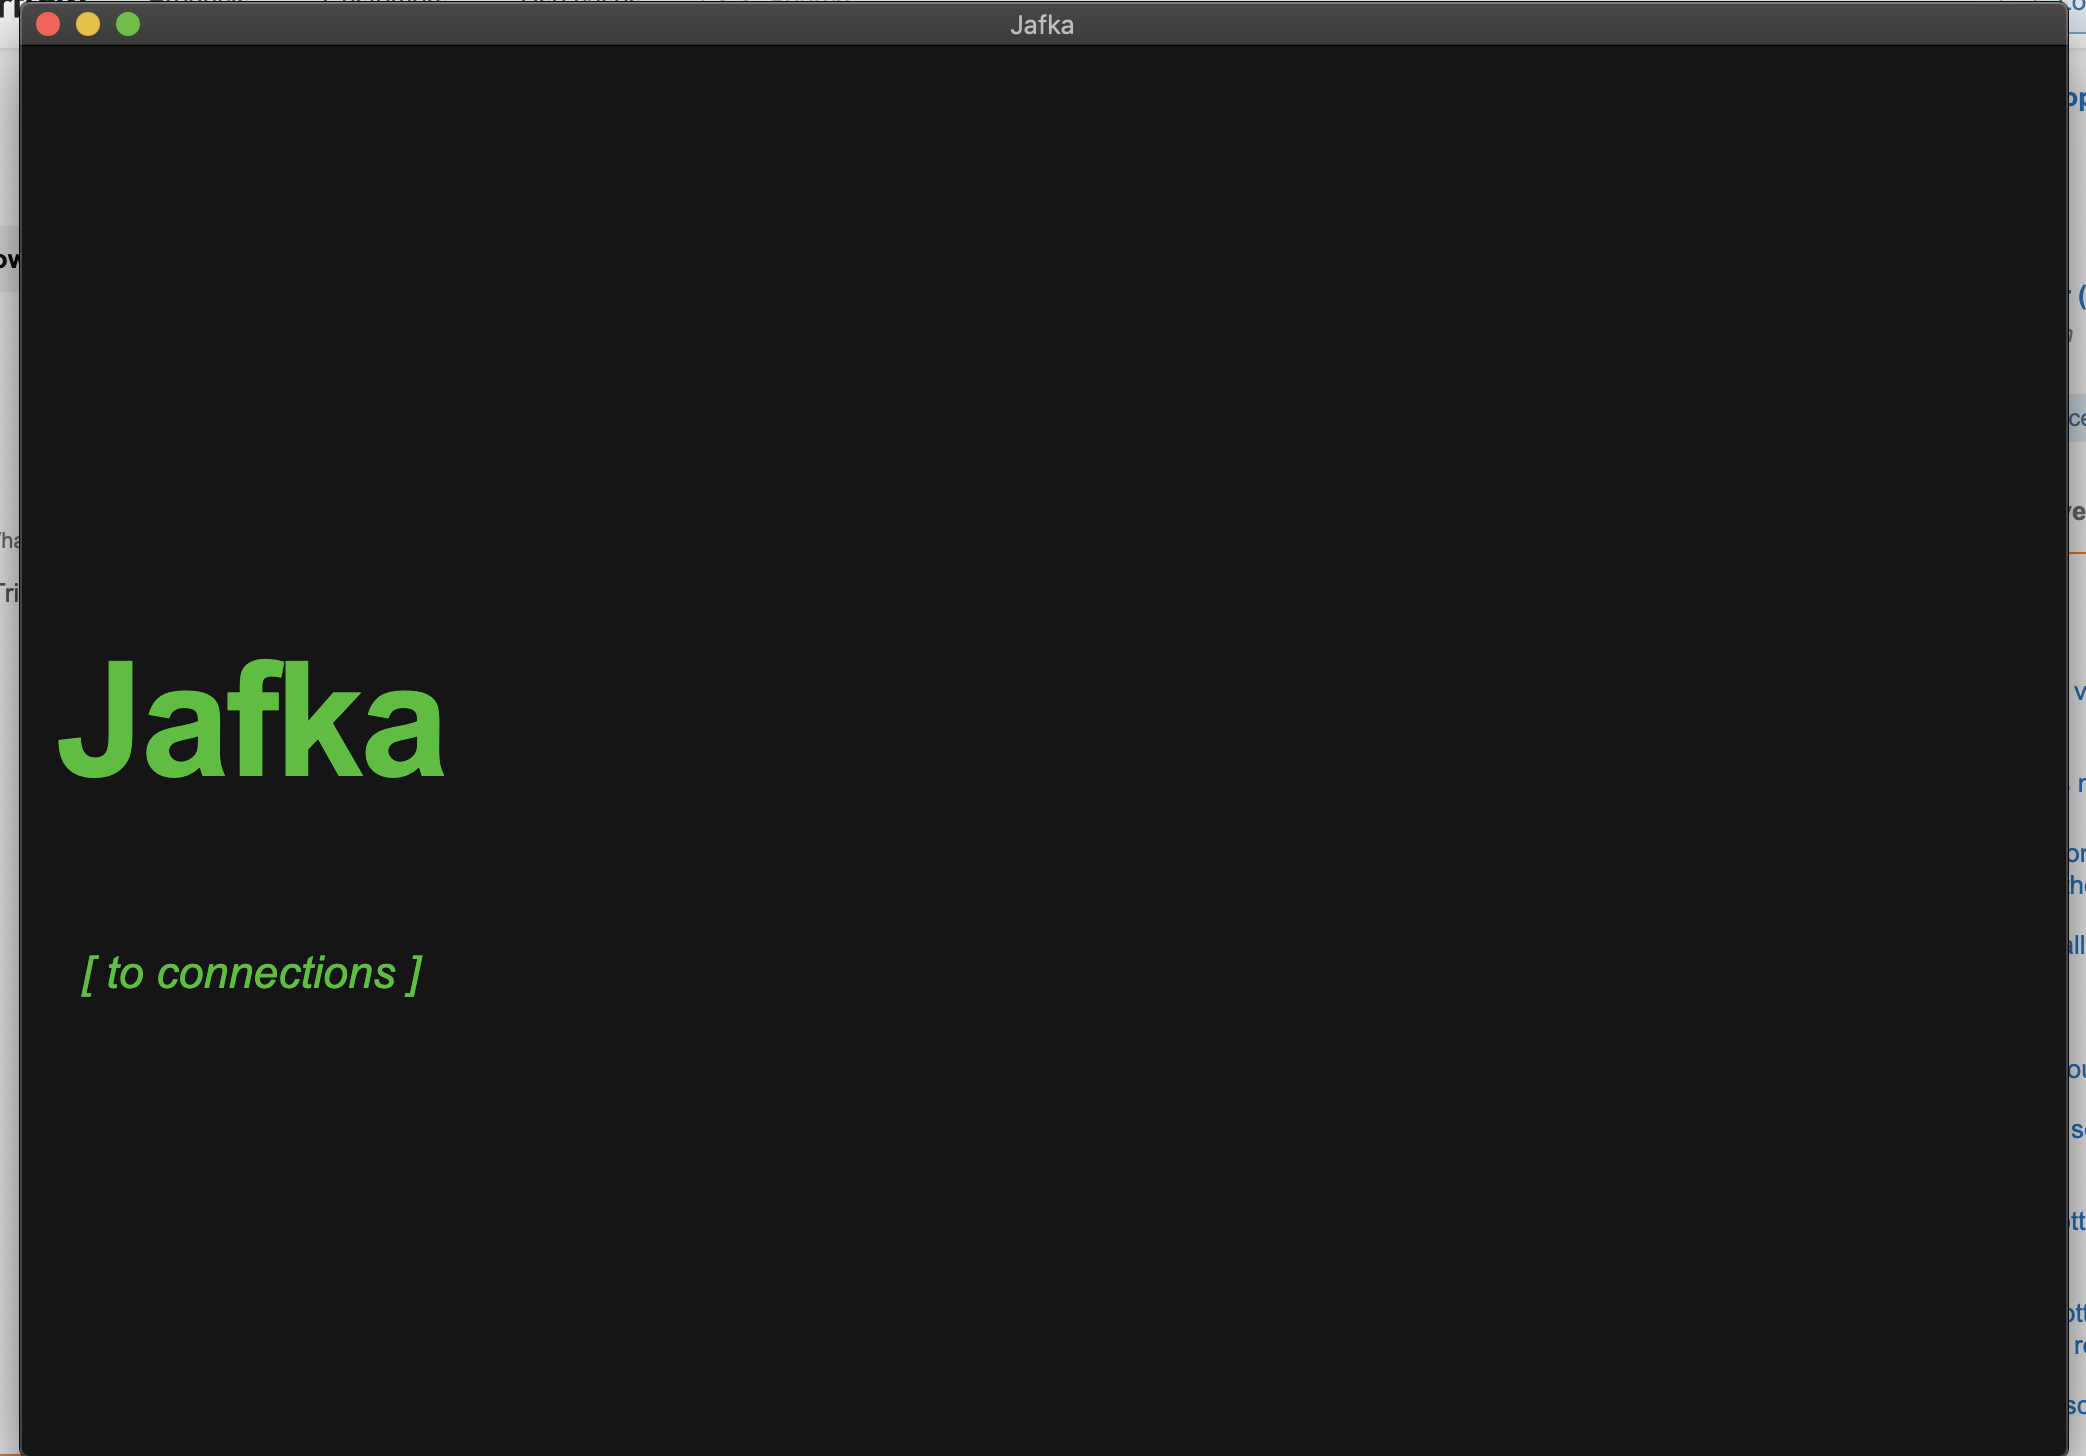
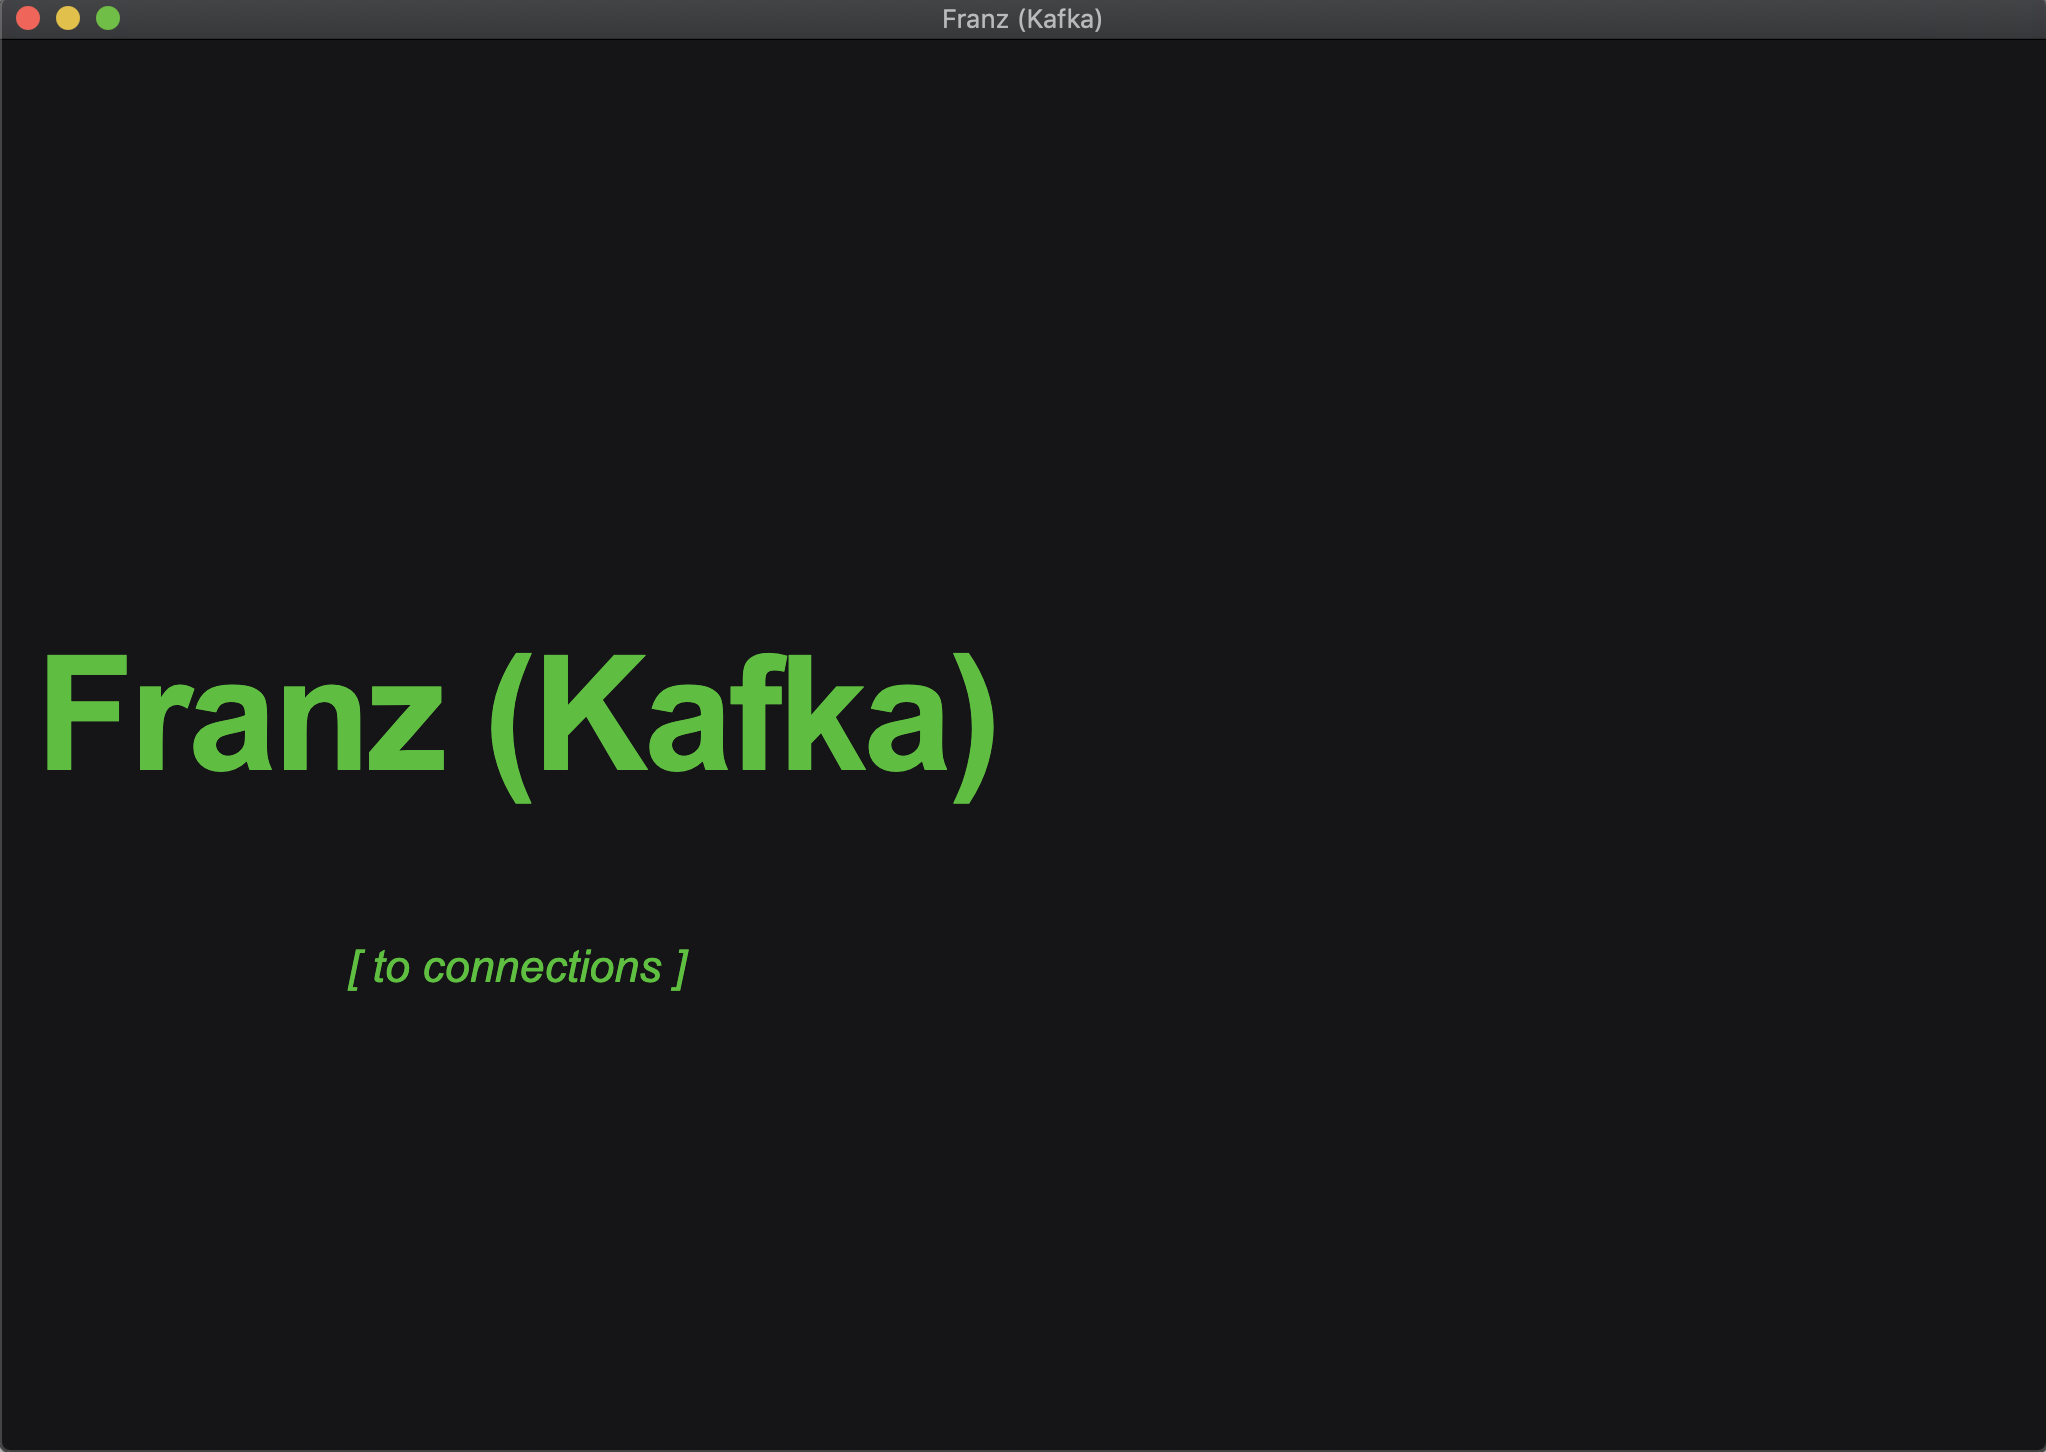
Add text match, message tailing, loading-bar in Consumer (#4)
* Add last read message metadata info in Consumer.tsx

* Add param flushMsg:boolean to consumerStop

* Rename app title

* Change Home image

* Rename Home.css to Home.scss

* Add footer with git repo link

* Add message tailing function by using scrollIntoView

* Apply width: 100% to ul

* Add fromBeginning option in Consumer.tsx

* Add text search input

* Add matchLiteral as param of consumeStart

* Add loading-bar at the end of messages while consuming

Changed region(s): [[0.0, 0.0, 1.0, 1.0]]

diff --git a/app/components/Consumer.tsx b/app/components/Consumer.tsx
@@ -7,13 +7,15 @@ import './consumer.styles.scss';
 import {getTopicDetails} from "../actions/topic.detail.actions";
 import {History} from 'history';
 import {Button} from "./Common/Button";
+import {TextInput} from "./Common/TextInput";
+import ReactLoading from 'react-loading';
 
 type Props = {
   topics: ITopicMetadata[],
   location: any,
   kafkaClient: Kafka,
-  consumeTopic: (topic: string, groupId: string) => void,
-  stopConsume: () => void,
+  consumeTopic: (topic: string, groupId: string, fromBeginning: boolean, regex: string) => void,
+  stopConsume: (flushMsg:boolean) => void,
   getTopicDetails: (topic: string) => void,
   consumer: any,
   history: History,
@@ -40,14 +42,20 @@ export class Consumer extends Component<Props> {
   componentDidMount(): void {
   }
 
+  componentDidUpdate(): void {
+    if (this.messagesEnd) {
+      this.messagesEnd.scrollIntoView({ behavior: 'smooth' })
+    }
+  }
+
   componentWillUnmount(): void {
     this.props.stopConsume();
   }
 
-  startConsume(): void {
+  startConsume(fromBeginning: boolean): void {
     const {consumeTopic, getTopicDetails} = this.props;
     let topic = this.selectedTopic.value;
-    consumeTopic(topic, "group-jafka");
+    consumeTopic(topic, "group-jafka", fromBeginning, this.matchText.value);
     getTopicDetails(topic);
   }
 
@@ -75,20 +83,56 @@ export class Consumer extends Component<Props> {
               topics.map(topic => <option key={topic.name} value={topic.name}>{topic.name}</option>)
             }
           </select>
-          <Button text={consumer.topic ? "Stop" : "Start"} theme='small'
-                  onClick={() => consumer.topic ? stopConsume() : this.startConsume()}/>
-          <ul key={consumer.topic} className='messages ul-40'>
-            {
-              consumer.message.map(msg => <li className='message' key={`${msg.offset}-${msg.partition}`}>
-                <div>
-                  <h3 className='colored'>partition-{msg.partition}: {msg.offset}</h3><br/>
-                  <div className='highlight'>&lt;timestamp&gt;: <span>{msg.timeStamp}</span></div>
-                  <div className='highlight'>&lt;message&gt;:<br/> {JSON.stringify(msg.value)}</div>
-                </div>
-              </li>)
-            }
-          </ul>
+          {
+            consumer.topic ?
+              <Button text="Stop" theme='small' onClick={() => stopConsume(false)}/> :
+              <span>
+                <Button text="Start" theme='small' onClick={() => this.startConsume(false)}/> or
+                <Button text="Start from beginning" theme='small' onClick={() => this.startConsume(true)}/>
+              </span>
+          }
         </div>
+        <br/>
+        {!consumer.topic && <TextInput refer={e => (this.matchText = e)} placeholder='(Optional)Text to search'/>}
+        <br/><br/>
+        <div>
+          <h3 className='colored-2'>{consumer.message.length ? `partition-${consumer.message[consumer.message.length - 1].partition} : ${consumer.message[consumer.message.length - 1].offset} : ${consumer.message[consumer.message.length - 1].timeStamp} : ${consumer.message[consumer.message.length - 1].key}`: ''}</h3>
+        </div>
+        <ul key={consumer.topic} className='messages ul-40'>
+          {
+            consumer.message.map(msg => <li className='message' key={`${msg.offset}-${msg.partition}`}>
+              <div>
+                <h3 className='colored'>partition-{msg.partition}: {msg.offset}</h3><br/>
+                <div className='highlight'>&lt;timestamp&gt;: <span>{msg.timeStamp}</span></div>
+                <div className='highlight'>&lt;message&gt;:<br/> {JSON.stringify(msg.value)}</div>
+              </div>
+            </li>)
+          }
+          {consumer.topic &&
+            <li ref={el => this.messagesEnd = el}>
+              <ReactLoading type='spokes' color={'#2ffd14'} height={30} width={30} />
+            </li>
+          }
+        </ul>
+        {
+          consumer.matchRegex &&
+          <div>
+            <h3>Matched : {consumer.matchRegex}</h3>
+              {consumer.matched.length ? <ul key={`search-${consumer.topic}`} className='messages ul-40'>
+                {
+                  consumer.matched.map(msg => <li className='message' key={`${msg.offset}-${msg.partition}`}>
+                    <div>
+                      <h3 className='colored'>partition-{msg.partition}: {msg.offset}</h3><br/>
+                      <div className='highlight'>&lt;timestamp&gt;: <span>{msg.timeStamp}</span></div>
+                      <div className='highlight'>&lt;message&gt;:<br/> {JSON.stringify(msg.value)}</div>
+                    </div>
+                  </li>)
+                }
+                <li className='colored'>-----------EOL-----------</li>
+              </ul> : <div>No match yet</div>
+            }
+          </div>
+        }
       </div>
     );
   }

diff --git a/app/actions/consumer.actions.ts b/app/actions/consumer.actions.ts
@@ -11,40 +11,50 @@ export function messageConsume(message: any) {
   }
 }
 
-export function consumerStart(consumer: any, topic: string) {
+export function consumerStart(consumer: any, topic: string, matchRegex: string) {
   return {
     type: START_CONSUME,
     consumer,
-    topic
+    topic,
+    matchRegex
   }
 }
 
-export function consumerStop() {
+export function consumerStop(flushMsg:boolean) {
   return {
-    type: STOP_CONSUME
+    type: STOP_CONSUME,
+    flushMsg
   }
 }
 
-export function stopConsume() {
-  return (dispatch: Dispatch) => dispatch(consumerStop())
+export function stopConsume(flushMsg:boolean = true) {
+  return (dispatch: Dispatch) => dispatch(consumerStop(flushMsg))
 }
 
-export function consumeTopic(topicToConsume, groupId) {
+export function consumeTopic(topicToConsume, groupId, fromBeginning = false, regexLiteral = '') {
   return (dispatch: Dispatch, getState: GetState) => {
     let consumer = getState().kafka.client.consumer({ groupId: groupId });
+    const regex = new RegExp(regexLiteral);
     consumer.connect()
       .then(async () => {
-        dispatch(consumerStart(consumer, topicToConsume));
-        await consumer.subscribe({ topic: topicToConsume, fromBeginning: true });
+        dispatch(consumerStart(consumer, topicToConsume, regexLiteral));
+        await consumer.subscribe({ topic: topicToConsume, fromBeginning: fromBeginning });
         await consumer.run({
           eachMessage: async ({ topic, partition, message }) => {
+            const value = message.value.toString();
+            let matched = false;
+            if (regexLiteral) {
+              matched = value.match(regex) !== null
+            }
+
             dispatch(messageConsume({
               key: message.key.toString(),
-              value: message.value.toString(),
+              value: value,
               offset: message.offset,
               timeStamp: message.timestamp,
               topic: topic,
-              partition: partition
+              partition: partition,
+              matched: matched
             }))
           },
         })

diff --git a/app/reducers/consumer.reducer.ts b/app/reducers/consumer.reducer.ts
@@ -3,7 +3,7 @@ import {CONSUME_MESSAGE, START_CONSUME, STOP_CONSUME} from "../actions/consumer.
 
 const MAX_MESSAGE_COUNT = 100;
 
-let emptyConsumer = {consumer: null, topic: '', message: []};
+let emptyConsumer = {consumer: null, topic: '', matchRegex: '', message: [], matched: []};
 export default function consumer(state: any = emptyConsumer, action: AnyAction) {
   const newState = { ...state };
   switch (action.type) {
@@ -11,6 +11,8 @@ export default function consumer(state: any = emptyConsumer, action: AnyAction) 
       newState.consumer = action.consumer;
       newState.topic = action.topic;
       newState.message = [];
+      newState.matchRegex = action.matchRegex;
+      newState.matched = [];
       return newState;
     case CONSUME_MESSAGE:
       action.message.value = JSON.parse(action.message.value);
@@ -18,6 +20,11 @@ export default function consumer(state: any = emptyConsumer, action: AnyAction) 
         newState.message = newState.message.slice(newState.message.length - MAX_MESSAGE_COUNT, newState.message.length);
       }
       newState.message.push(action.message);
+
+      if (action.message.matched) {
+        newState.matched.push(action.message);
+      }
+
       return newState;
     case STOP_CONSUME:
       if (state.consumer) {
@@ -25,6 +32,11 @@ export default function consumer(state: any = emptyConsumer, action: AnyAction) 
       }
       newState.consumer = null;
       newState.topic = '';
+      if (action.flushMsg) {
+        newState.message = [];
+        newState.matched = [];
+        newState.matchRegex = '';
+      }
       return newState;
     default:
       return state;

diff --git a/app/components/Home.tsx b/app/components/Home.tsx
@@ -1,12 +1,12 @@
 import React from 'react';
 import {Link} from 'react-router-dom';
 import routes from '../constants/routes.json';
-import styles from './Home.css';
+import styles from './Home.scss';
 
 export default function Home() {
   return (
     <div className={styles.container} data-tid="container">
-      <h2>Jafka</h2>
+      <h2>Franz (Kafka)</h2>
       <Link to={routes.CONNECTIONS}><i>[ to connections ]</i></Link>
     </div>
   );

diff --git a/app/app.html b/app/app.html
@@ -2,7 +2,7 @@
 <html>
   <head>
     <meta charset="utf-8" />
-    <title>Jafka</title>
+    <title>Franz (Kafka)</title>
     <script>
       (() => {
         if (
@@ -50,4 +50,12 @@
       }
     </script>
   </body>
+  <footer>
+    <a
+      href="https://github.com/Kims-DeveloperGroup/franz-kafka"
+      target="_blank"
+    >
+      https://github.com/Kims-DeveloperGroup/franz-kafka</a
+    >
+  </footer>
 </html>

diff --git a/app/app.global.scss b/app/app.global.scss
@@ -15,6 +15,10 @@ body {
   color: fuchsia;
 }
 
+.colored-2 {
+  color: gold;
+}
+
 h1 {
   margin: 10px 0 40px 0;
   font-size: 24px;
@@ -52,6 +56,7 @@ h4 {
 
 ul {
   overflow-y: scroll;
+  width: 100%;
 }
 
 li {
@@ -86,4 +91,12 @@ select {
   color: rgb(47, 253, 20);
   font-size: 14px;
   text-align: center;
+}
+
+footer {
+  cursor: pointer;
+  position: absolute;
+  font-size: 12px;
+  top: 98%;
+  left: 70%;
 }
